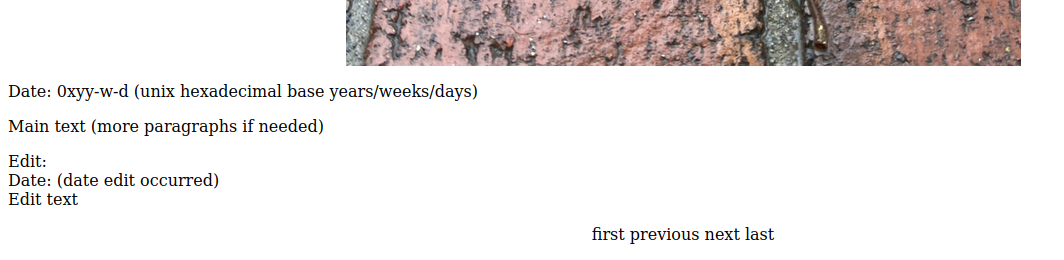
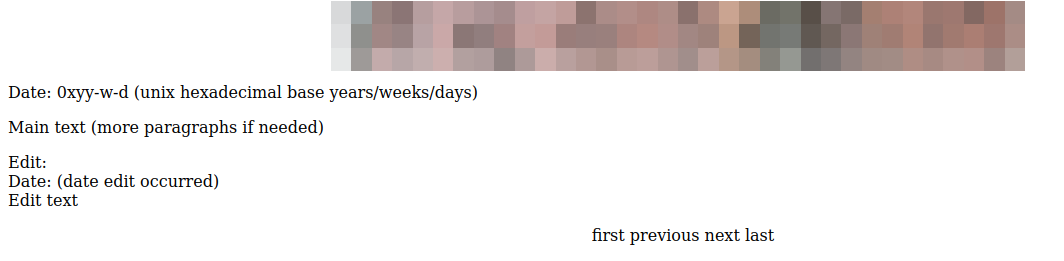
Second privacy update.

diff --git a/blog+template/yy-ww-0/page.html b/blog+template/yy-ww-0/page.html
@@ -47,22 +47,22 @@
 
   <body>
     <h1 id="post_title"></h1> <!-- full title -->
-    <img id="post_banner" src="image.jpg" alt="template banner image"></img>
-    <img id="post_image" src="image.jpg" alt="template image"></img>
+    <img id="post_banner" src="blog+template+banner.png" alt="template banner image"></img>
+    <img id="post_image" src="blog+template+image.png" alt="template image"></img>
     <p>Date: 0x</p> <!-- yy-ww-d (unix hexadecimal base years/weeks/days) -->
     <p></p> <!-- Main text (more paragraphs if needed) -->
     <div class="row"> <!-- Up to four side by side images per row -->
       <div class="column">
-	<img src="image.jpg" alt="template image" style="width:100%">
+	<img src="blog+template+image.png" alt="template image" style="width:100%">
       </div>
       <div class="column">
-	<img src="image.jpg" alt="template image" style="width:100%">
+	<img src="blog+template+image.png" alt="template image" style="width:100%">
       </div>
       <div class="column">
-	<img src="image.jpg" alt="template image" style="width:100%">
+	<img src="blog+template+image.png" alt="template image" style="width:100%">
       </div>
       <div class="column">
-	<img src="image.jpg" alt="template image" style="width:100%">
+	<img src="blog+template+image.png" alt="template image" style="width:100%">
       </div>
     </div>
     <p>

diff --git a/blog+template/yy-ww-1/page.html b/blog+template/yy-ww-1/page.html
@@ -47,22 +47,22 @@
 
   <body>
     <h1 id="post_title"></h1> <!-- full title -->
-    <img id="post_banner" src="image.jpg" alt="template banner image"></img>
-    <img id="post_image" src="image.jpg" alt="template image"></img>
+    <img id="post_banner" src="blog+template+banner.png" alt="template banner image"></img>
+    <img id="post_image" src="blog+template+image.png" alt="template image"></img>
     <p>Date: 0x</p> <!-- yy-ww-d (unix hexadecimal base years/weeks/days) -->
     <p></p> <!-- Main text (more paragraphs if needed) -->
     <div class="row"> <!-- Up to four side by side images per row -->
       <div class="column">
-	<img src="image.jpg" alt="template image" style="width:100%">
+	<img src="blog+template+image.png" alt="template image" style="width:100%">
       </div>
       <div class="column">
-	<img src="image.jpg" alt="template image" style="width:100%">
+	<img src="blog+template+image.png" alt="template image" style="width:100%">
       </div>
       <div class="column">
-	<img src="image.jpg" alt="template image" style="width:100%">
+	<img src="blog+template+image.png" alt="template image" style="width:100%">
       </div>
       <div class="column">
-	<img src="image.jpg" alt="template image" style="width:100%">
+	<img src="blog+template+image.png" alt="template image" style="width:100%">
       </div>
     </div>
     <p>

diff --git a/project+blog/34-09-5/page.html b/project+blog/34-09-5/page.html
@@ -30,6 +30,11 @@
       <a href="../../blog+template/yy-ww-d/page.html">template</a>
       with sequential blog navigation links. I also added a simple standard format for edits after initial posting. :D
     </p>
+    <p>
+      Edit: <br>
+      Date: 0x35-11-6 <br> <!-- (date edit occurred) -->
+      I pixelated part of the image of the original blog template from the time when I posted this blog entry.<!-- edit text-->
+    </p>
     <p id="sequence_links">
       <a href="../34-08-7/page.html" id="first">first</a>
       <a href="../34-08-7/page.html" id="previous">previous</a>
